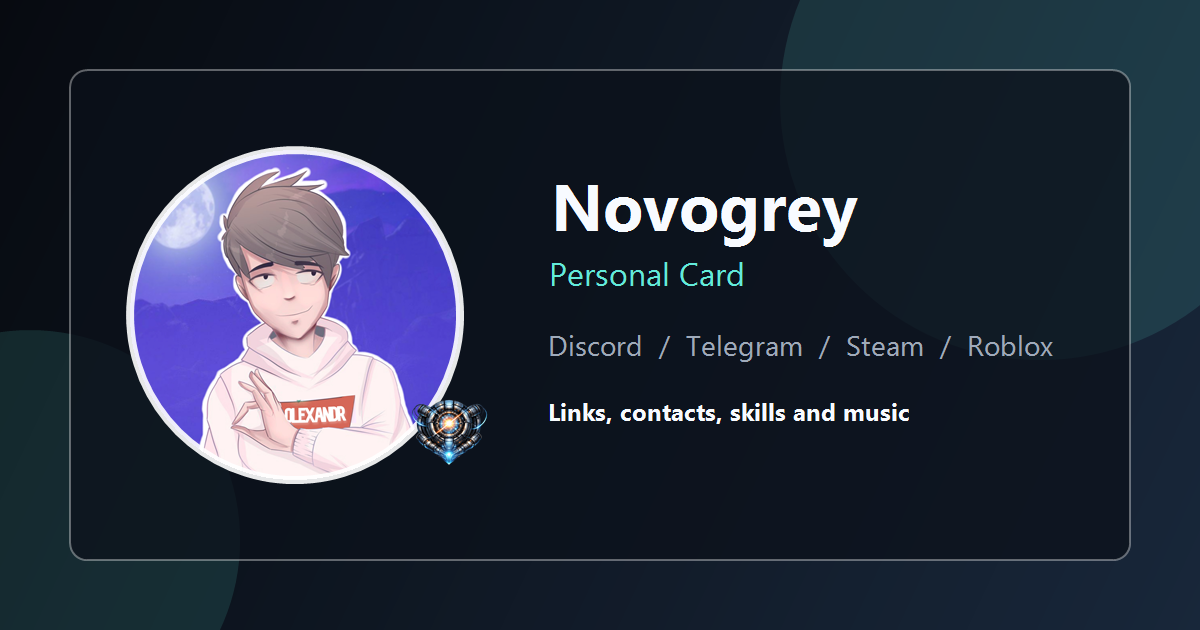
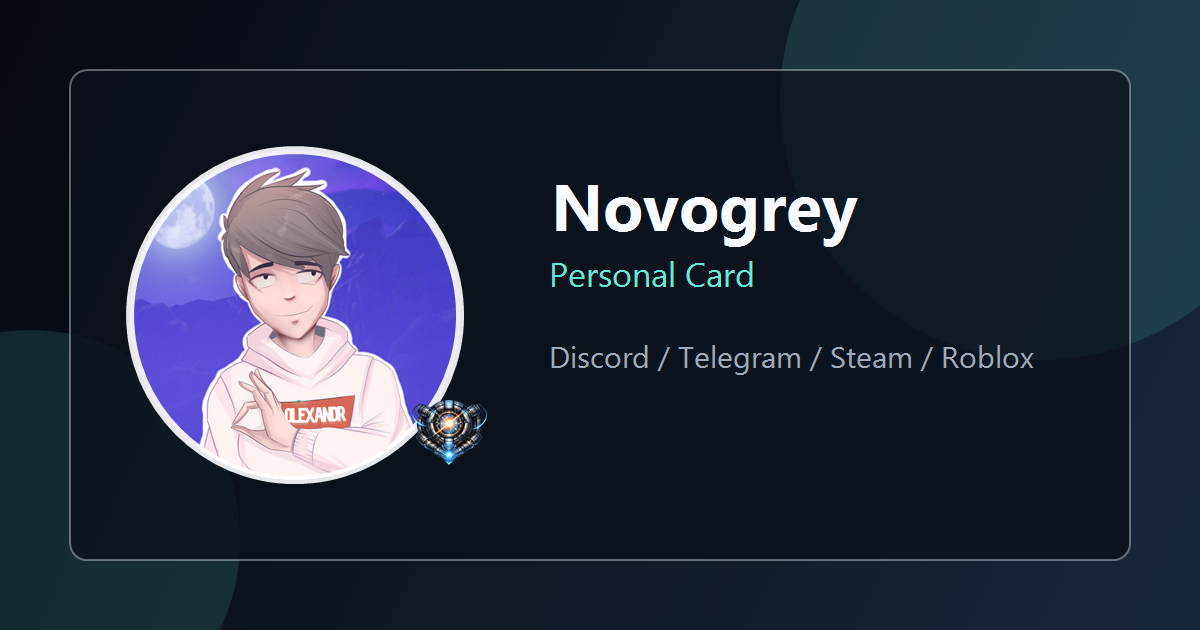
Fix 3

Changed region(s): [[0.4317, 0.5429, 0.8942, 0.6032], [0.4317, 0.6333, 0.7708, 0.6937], [0.4625, 0.3921, 0.6475, 0.4524]]

diff --git a/index.html b/index.html
@@ -4,16 +4,16 @@
 <meta charset="UTF-8">
 <meta name="viewport" content="width=device-width, initial-scale=1.0">
 <meta name="theme-color" content="#080b10">
-<meta name="description" content="Личная карточка Novogrey: ссылки на Discord, Telegram, Steam, Roblox, TruckersMP, навыки, контакты и музыкальный плеер.">
+<meta name="description" content="A compact personal profile for Novogrey with a quick look at contacts, interests, and online presence.">
 <meta name="author" content="Novogrey">
 <meta name="robots" content="index,follow">
 <meta itemprop="name" content="Novogrey — Personal Card">
-<meta itemprop="description" content="Личная карточка Novogrey: ссылки на Discord, Telegram, Steam, Roblox, TruckersMP, навыки, контакты и музыкальный плеер.">
+<meta itemprop="description" content="A compact personal profile for Novogrey with a quick look at contacts, interests, and online presence.">
 <meta itemprop="image" content="https://novogrey.github.io/Card/images/social-preview.png">
 <meta property="og:type" content="website">
 <meta property="og:site_name" content="Novogrey">
 <meta property="og:title" content="Novogrey — Personal Card">
-<meta property="og:description" content="Личная карточка Novogrey: ссылки на Discord, Telegram, Steam, Roblox, TruckersMP, навыки, контакты и музыкальный плеер.">
+<meta property="og:description" content="A compact personal profile for Novogrey with a quick look at contacts, interests, and online presence.">
 <meta property="og:url" content="https://novogrey.github.io/Card/">
 <meta property="og:image" content="https://novogrey.github.io/Card/images/social-preview.png">
 <meta property="og:image:secure_url" content="https://novogrey.github.io/Card/images/social-preview.png">
@@ -21,13 +21,13 @@
 <meta property="og:image:width" content="1200">
 <meta property="og:image:height" content="630">
 <meta property="og:image:alt" content="Novogrey personal card preview">
-<meta property="og:locale" content="ru_RU">
-<meta property="og:locale:alternate" content="en_US">
+<meta property="og:locale" content="en_US">
+<meta property="og:locale:alternate" content="ru_RU">
 <meta property="og:locale:alternate" content="de_DE">
 <meta property="og:locale:alternate" content="uk_UA">
 <meta name="twitter:card" content="summary_large_image">
 <meta name="twitter:title" content="Novogrey — Personal Card">
-<meta name="twitter:description" content="Личная карточка Novogrey: ссылки на Discord, Telegram, Steam, Roblox, TruckersMP, навыки, контакты и музыкальный плеер.">
+<meta name="twitter:description" content="A compact personal profile for Novogrey with a quick look at contacts, interests, and online presence.">
 <meta name="twitter:image" content="https://novogrey.github.io/Card/images/social-preview.png">
 <meta name="twitter:image:alt" content="Novogrey personal card preview">
 <title>Novogrey — Personal Card</title>
